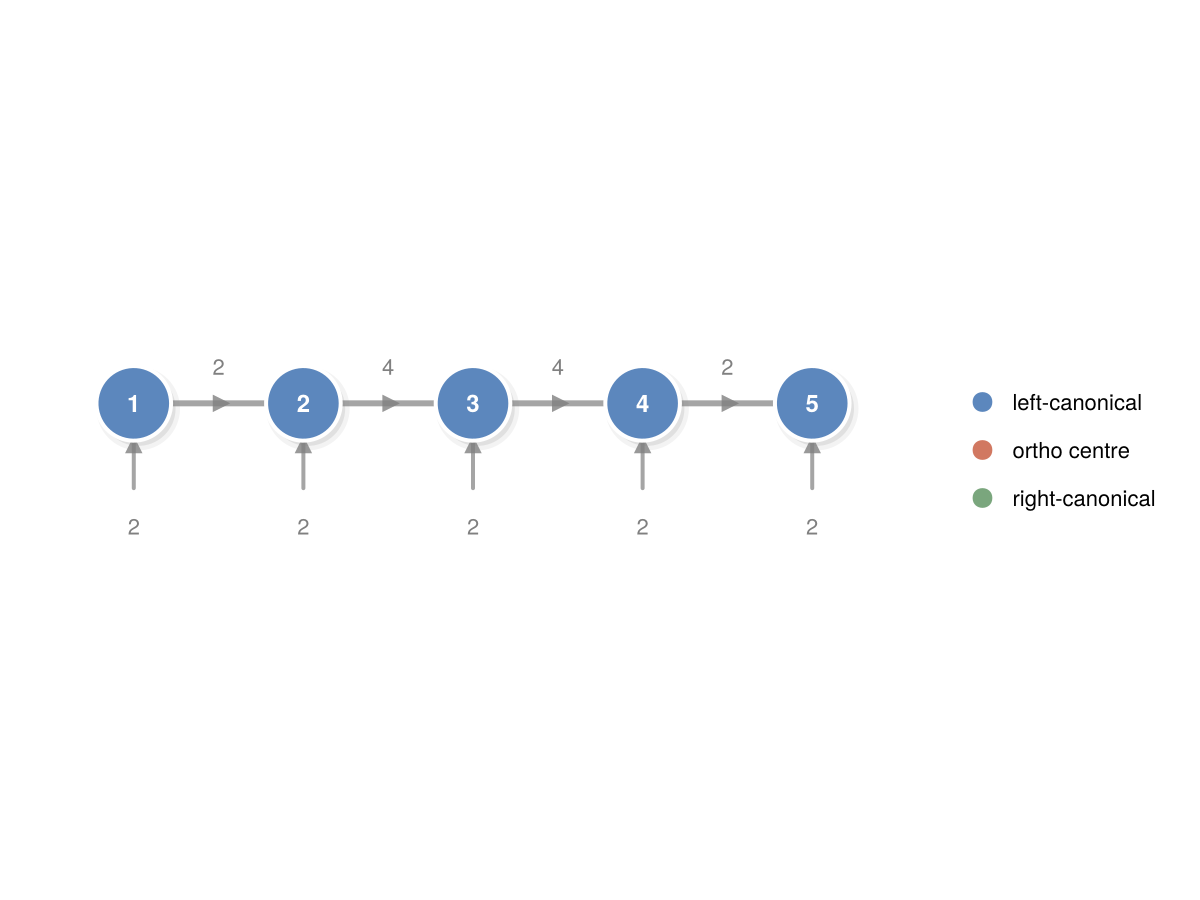
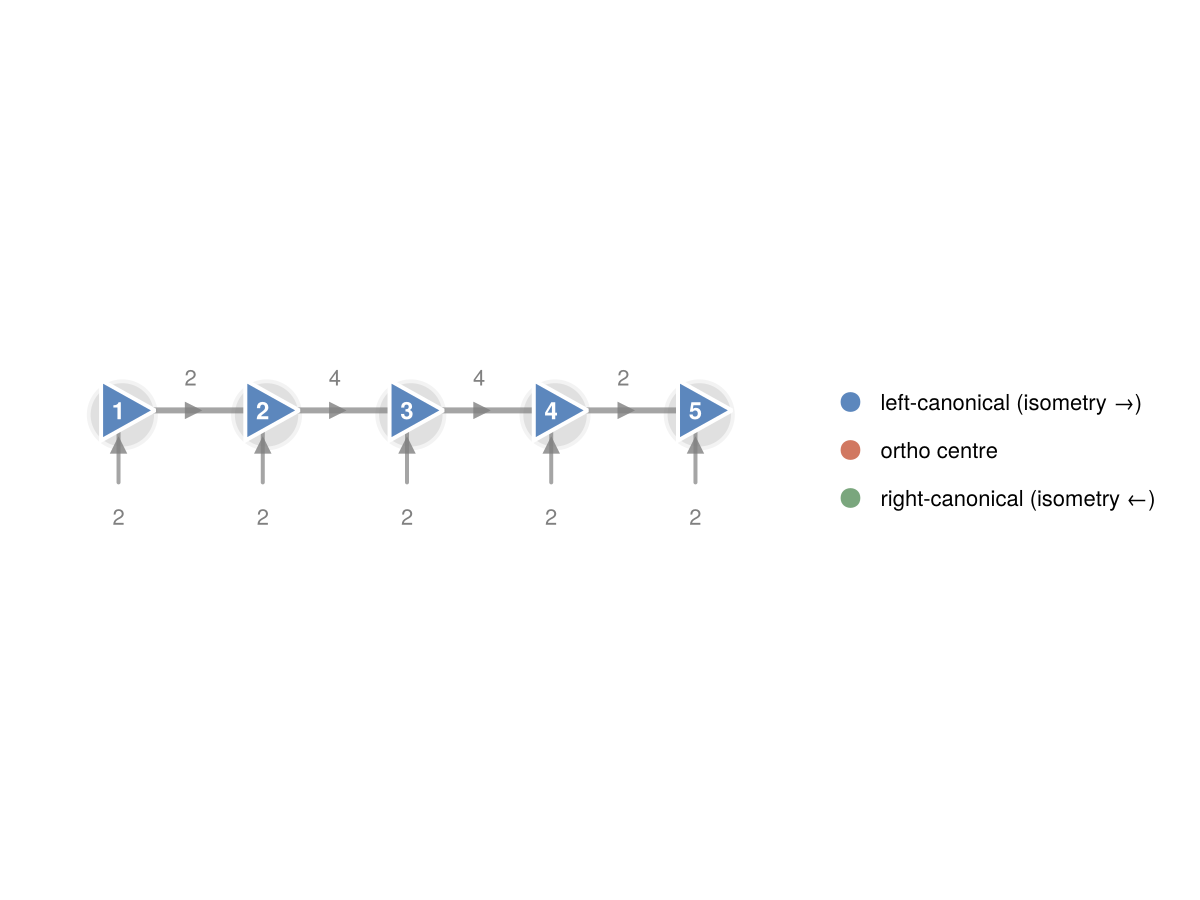
feat: draw tensors by kind — general, diagonal, unitary, isometry shapes
Adds the tensors.net shape convention (tensors.net/tutorial-2) to the drawing
API: tensor!'s new shape kwarg switches a node between a circle (general),
a small dot (diagonal), a square (unitary), or a wedge (isometry) whose apex
points toward the side it contracts onto. draw(::FiniteMPS) now uses this
automatically — left/right-canonical sites are genuine isometries, so they
render as wedges pointing toward their contracted bond, with the ortho centre
left as a plain circle since it carries no such guarantee. GS-3 gains a new
section walking through all four shapes.

Changed region(s): [[0.0617, 0.4044, 0.9558, 0.56], [0.0925, 0.56, 0.1233, 0.5911]]

diff --git a/docs/src/getting_started/gs3_drawing_tensor_networks.md b/docs/src/getting_started/gs3_drawing_tensor_networks.md
@@ -14,7 +14,7 @@ The whole API is five verbs threaded through a canvas:
 
 | Verb | Draws |
 |------|-------|
-| [`tensor!`](@ref) | a named tensor node (a labelled circle) |
+| [`tensor!`](@ref) | a named tensor node (shape encodes tensor kind — §5) |
 | [`bond!`](@ref) | a bond line between two tensors |
 | [`leg!`](@ref) | a dangling / open (physical) leg |
 | [`partition!`](@ref) | a translucent blob grouping tensors |
@@ -159,30 +159,73 @@ Because `partition!` just takes whatever tensors you name, overlapping and
 nested regions work too — draw a large faint blob over the whole network and a
 smaller saturated one over a sub-block to show a region inside a region.
 
-## 5. Putting it together
+## 5. Tensor-kind shapes
+
+A circle says nothing about what a tensor *is*. [`tensor!`](@ref)'s `shape`
+keyword follows the convention from
+[tensors.net's tutorials](https://www.tensors.net/tutorial-2): the geometry
+itself carries meaning, so a diagram reads correctly even without labels.
+
+| `shape` | Geometry | Meaning |
+|:--------|:---------|:--------|
+| `:general`  | circle    | a generic tensor, no special structure |
+| `:diagonal` | small dot | diagonal (e.g. a singular-value spectrum) |
+| `:unitary`  | square    | ``U`` with ``UU^\dagger = U^\dagger U = I`` |
+| `:isometry` | wedge     | ``W`` with ``W^\dagger W = I``; the apex points toward the *contracted* (smaller) side |
+
+The wedge is the interesting one: point it with `rotation` (radians), and
+stacking two mirrored wedges base-to-base is exactly the picture of
+``W^\dagger W`` collapsing to the identity.
+
+````julia
+s = schematic(; figure_kw=(size=(720, 220),))
+tensor!(s, :U0, (0, 0);   shape=:general,  label="U₀")
+tensor!(s, :S,  (1.4, 0); shape=:diagonal, color=:gray)
+tensor!(s, :U,  (2.8, 0); shape=:unitary,  label="U", color=:steelblue)
+tensor!(s, :Wr, (4.2, 0); shape=:isometry, rotation=0.0, label="W", color=:seagreen)
+tensor!(s, :Wl, (5.6, 0); shape=:isometry, rotation=π,   label="W", color=:tomato)
+for (x, txt) in zip(0:1.4:5.6, ("general", "diagonal", "unitary", "isometry →", "isometry ←"))
+    note!(s, (x, -0.6), txt; fontsize=11, color=:gray)
+end
+s.fig
+````
+
+
+![](gs3_drawing_tensor_networks-fig-6.png)
+
+
+`draw(mps::FiniteMPS)` from GS-1 already uses this: since Qritical tracks
+each site's canonical form, left- and right-canonical sites are drawn as
+isometry wedges automatically — no manual shape bookkeeping required.
+
+## 6. Putting it together
 
 A slightly richer figure: a five-site MPS with the orthogonality centre marked,
-a bond label on every link, and a partition highlighting the two-site window an
-algorithm like DMRG or TEBD updates at each step.
+a bond label on every link, isometry wedges on the canonical sites, and a
+partition highlighting the two-site window an algorithm like DMRG or TEBD
+updates at each step.
 
 ````julia
 s = schematic(; figure_kw=(size=(820, 300),))
-colors = [:steelblue, :steelblue, :tomato, :seagreen, :seagreen]
+site_shapes    = [:isometry, :isometry, :general, :isometry, :isometry]
+site_rotations = [0.0, 0.0, 0.0, π, π]      # left-canonical → apex right, right-canonical → apex left
+colors         = [:steelblue, :steelblue, :tomato, :seagreen, :seagreen]
 for i in 1:5
-    tensor!(s, Symbol(:m, i), (i - 1, 0); color=colors[i])
+    tensor!(s, Symbol(:m, i), (i - 1, 0);
+            shape=site_shapes[i], rotation=site_rotations[i], color=colors[i])
     leg!(s, Symbol(:m, i), π/2; label="σ$i", arrow=true, into=true, length=0.5)
 end
 for i in 1:4
     bond!(s, Symbol(:m, i), Symbol(:m, i + 1); label="χ$i", arrow=true)
 end
-partition!(s, [:m2, :m3]; color=:goldenrod, padding=0.45, label="two-site update")
+partition!(s, [:m2, :m3]; color=:goldenrod, padding=0.3, label="two-site update")
 note!(s, (2.0, -1.2), "blue = left-canonical · red = centre · green = right-canonical";
       fontsize=11, color=:gray)
 s.fig
 ````
 
 
-![](gs3_drawing_tensor_networks-fig-6.png)
+![](gs3_drawing_tensor_networks-fig-7.png)
 
 
 ---

diff --git a/docs/src/getting_started/gs1_tensors_and_indices.md b/docs/src/getting_started/gs1_tensors_and_indices.md
@@ -33,7 +33,7 @@ vL = upper(:vL, 2)     # virtual bond leg: inward / incoming → Upper → domai
 ````
 
 ````
-Qritical.TIx{Qritical.Upper}(:σ, 2)
+TIx{Upper}(:σ, 2)
 ````
 
 ````julia
@@ -67,7 +67,7 @@ A = QTensor(randn(χ, d, χ), (upper(:vL, χ), upper(:σ, d), lower(:vR, χ)))
 ````
 
 ````
-3×2×3 Qritical.QTensor{Float64, 3, Array{Float64, 3}}:
+3×2×3 QTensor{Float64, 3, Array{Float64, 3}}:
 [:, :, 1] =
  -0.480327  -1.21161
  -0.792592  -0.0679285
@@ -144,7 +144,7 @@ B = QTensor(randn(χ, d, χ), (upper(:vR, χ), upper(:σ2, d), lower(:vR2, χ)))
 ````
 
 ````
-3×2×3 Qritical.QTensor{Float64, 3, Array{Float64, 3}}:
+3×2×3 QTensor{Float64, 3, Array{Float64, 3}}:
 [:, :, 1] =
  -2.21643  0.607555
  -1.96055  1.47874

diff --git a/docs/src/getting_started/gs2_svd_and_truncation.md b/docs/src/getting_started/gs2_svd_and_truncation.md
@@ -40,7 +40,7 @@ A = QTensor(Amat, (upper(:i, m), lower(:j, n)))
 ````
 
 ````
-6×4 Qritical.QTensor{Float64, 2, Matrix{Float64}}:
+6×4 QTensor{Float64, 2, Matrix{Float64}}:
  -0.480327    1.55835      0.0244543   1.29693
  -0.792592    0.00173221  -0.65852     0.350661
  -0.286976    0.903743     2.1776     -0.679682
@@ -57,7 +57,7 @@ typeof(F)                                # FullSVD
 ````
 
 ````
-Qritical.FullSVD
+FullSVD
 ````
 
 ````julia
